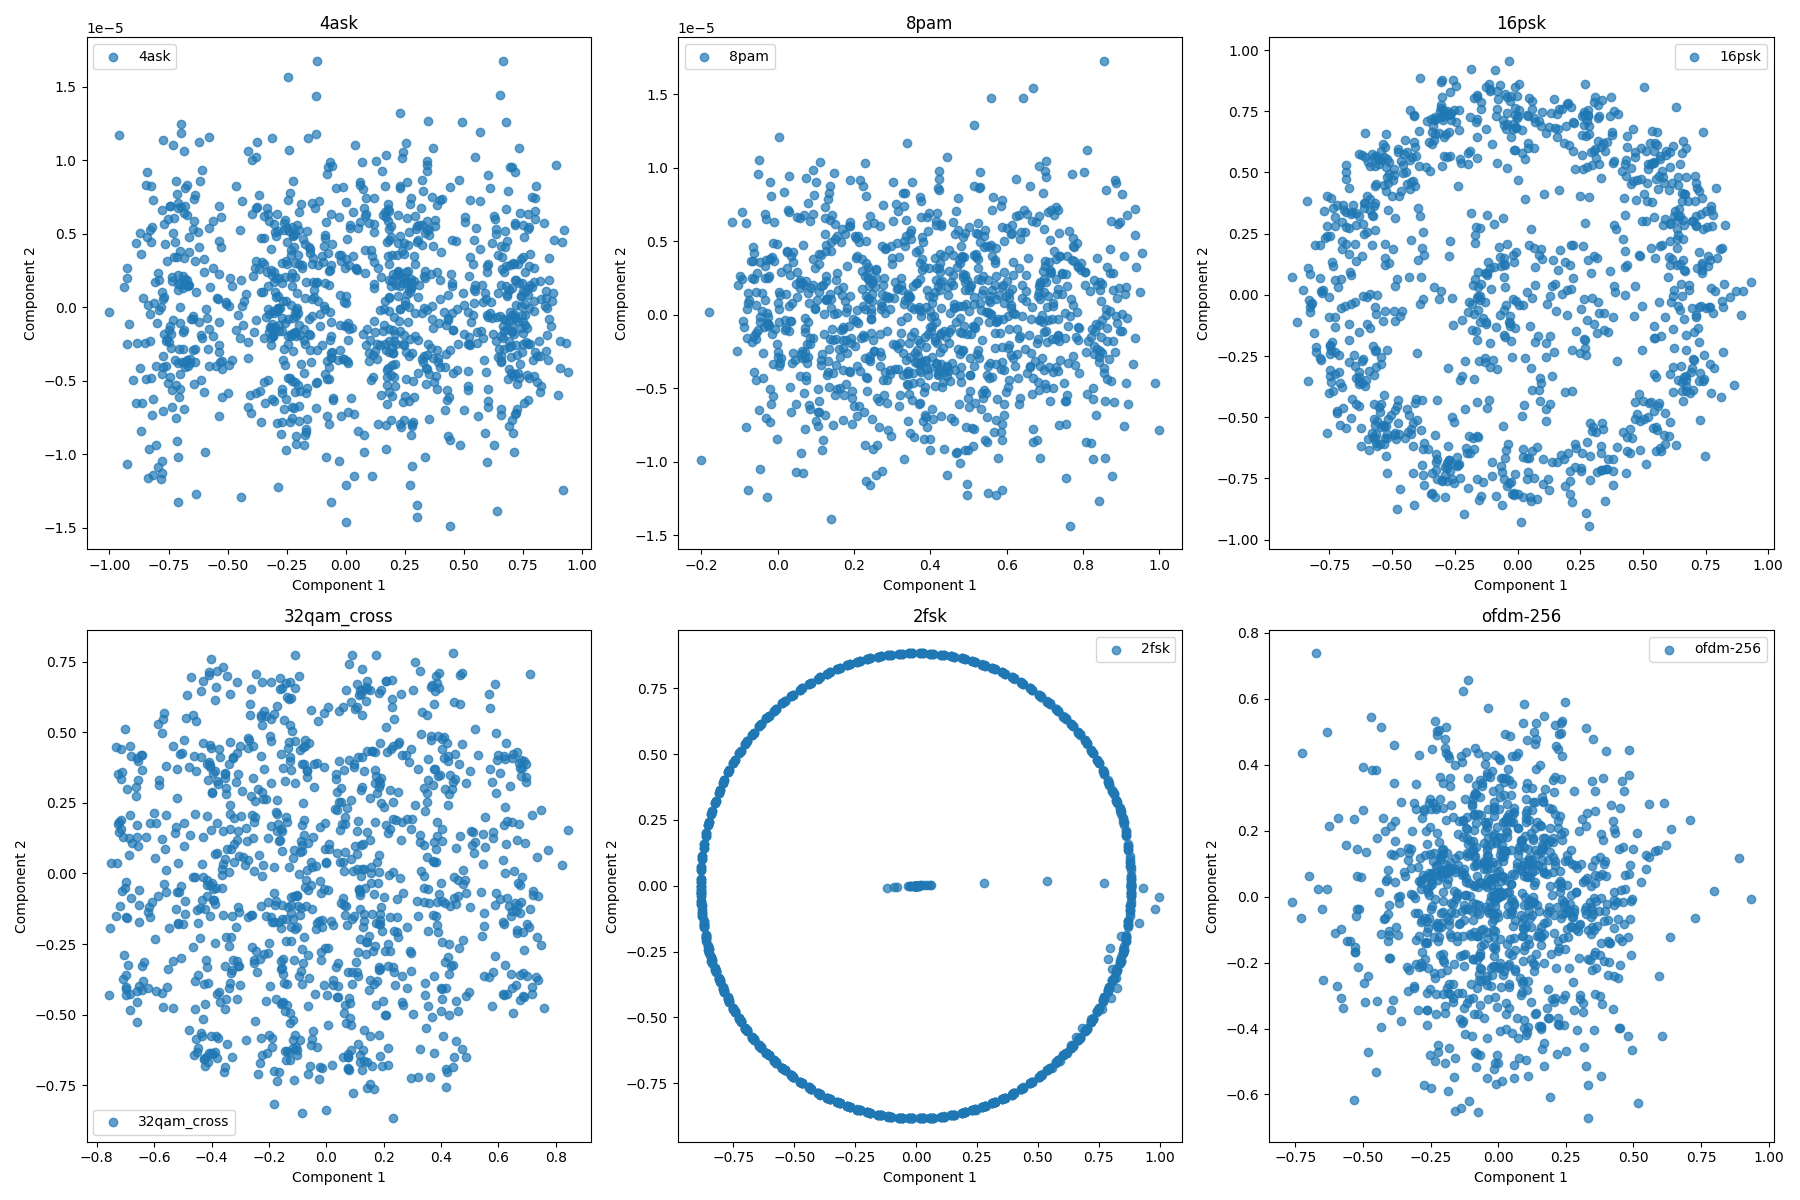
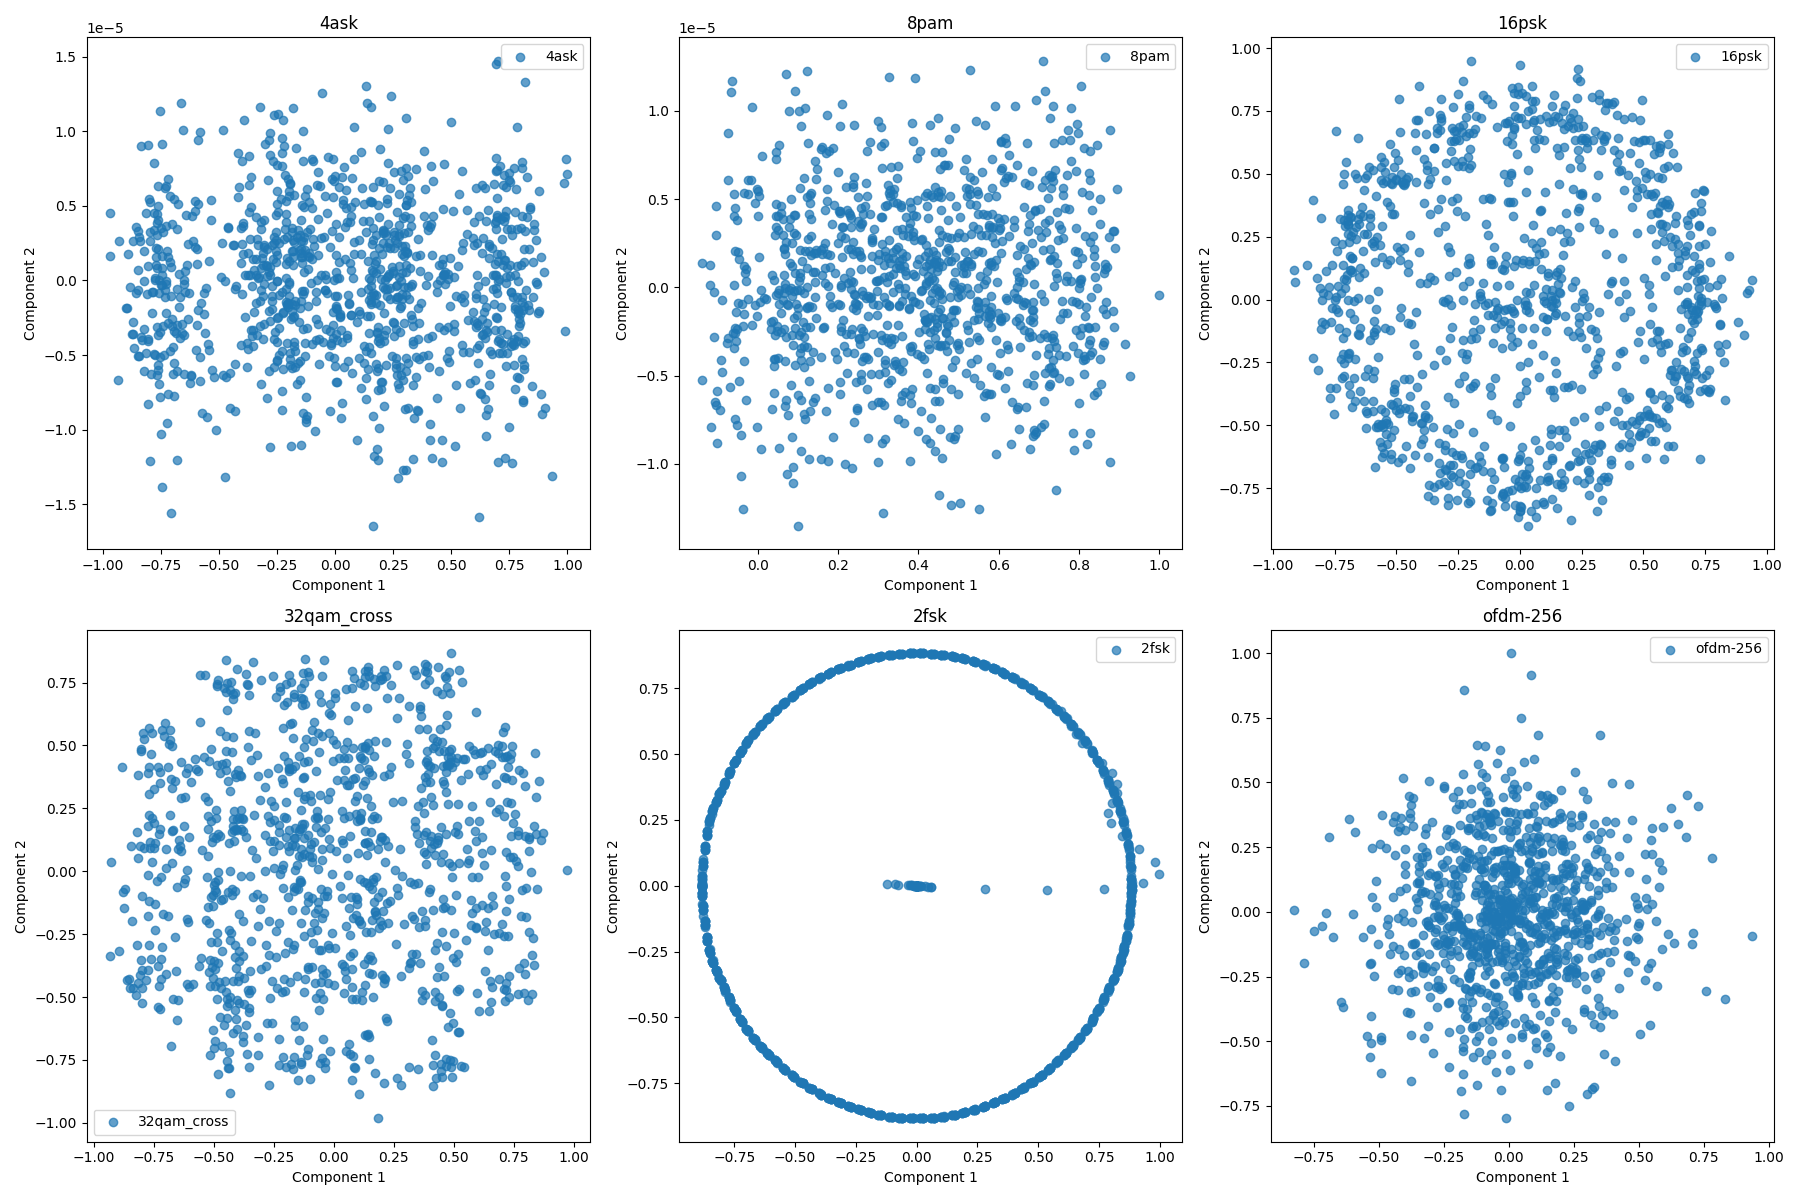
Added constellations for the vqvae reconstructions

diff --git a/run/plotOriginalConstellations.py b/run/plotOriginalConstellations.py
@@ -2,56 +2,56 @@ import os
 import matplotlib.pyplot as plt
 import torch
 from src.Dataset import getDataLoader
-
-def plot_signals_by_class(data_loader, classes, folder):
-    # Create the eval folder if it doesn't exist
+from src.utils import *
+from tqdm import tqdm
+def plot_signals_by_class(data_loader, classes, folder, vqvae_model=None):
     os.makedirs(folder, exist_ok=True)
-
-    # Initialize a dictionary to store one signal per class
     class_signals = {cls: None for cls in range(len(classes))}
 
-    # Iterate through the data loader to fetch signals and their labels
-    for signals, labels in data_loader:
+    # Ensure the model is in evaluation mode and moved to the correct device
+    if vqvae_model:
+        vqvae_model = vqvae_model.to(device).eval()
+
+    for signals, labels in tqdm(data_loader):
+        signals = signals.to(device)  # Move signals to GPU if using CUDA
         for signal, label in zip(signals, labels):
             label_idx = label.item()
             if class_signals[label_idx] is None:
-                class_signals[label_idx] = signal
+                if vqvae_model:
+                    with torch.no_grad():
+                        # Ensure signal has correct dimensions: (batch_size, channels, length)
+                        signal = signal.unsqueeze(0)  # Add batch dimension if it's missing
+                        reconstructed = vqvae_model.reconstruct(signal)
+                        class_signals[label_idx] = reconstructed.squeeze(0).cpu().numpy()  # Remove batch dimension for plotting
+                else:
+                    class_signals[label_idx] = signal.cpu().numpy()
 
-        # Break the loop if we have one signal for each class
         if all(val is not None for val in class_signals.values()):
             break
 
-    # Create a figure with subplots
-    cols = 3  # Number of columns in subplot grid
-    rows = (len(classes) + cols - 1) // cols  # Calculate rows needed
-    plt.figure(figsize=(18, 6 * rows))
-
-    # Plot one signal for each class
+    plt.figure(figsize=(18, 6 * ((len(classes) + 2) // 3)))
     for i, (label_idx, signal) in enumerate(class_signals.items()):
-        if signal is not None:
-            ax = plt.subplot(rows, cols, i + 1)
+        ax = plt.subplot((len(classes) + 2) // 3, 3, i + 1)
+        ax.scatter(signal[0], signal[1], alpha=0.7, label=classes[label_idx])
+        ax.set_title(f'{classes[label_idx]}')
+        ax.set_xlabel('Component 1')
+        ax.set_ylabel('Component 2')
+        ax.legend()
 
-            # Assuming signals are IQ samples with shape [2, n_samples]
-            iq_signal = signal.cpu().detach().numpy()
-
-            ax.scatter(iq_signal[0], iq_signal[1], alpha=0.7, label=classes[label_idx])
-            ax.set_title(f'{classes[label_idx]}')
-            ax.set_xlabel('Component 1')
-            ax.set_ylabel('Component 2')
-            ax.legend()
-
-    # Save the plot
-    plt.tight_layout()  # Adjust subplots to fit into the figure area
+    plt.tight_layout()
     plt.savefig(os.path.join(folder, 'signals_by_class.png'))
     plt.close()
 
-# Example usage
-classes = ["4ask", "8pam", "16psk", "32qam_cross", "2fsk", "ofdm-256"]
+# Load your VQVAE model correctly and ensure it's ready for inference
+vqvae_model = torch.load(VQVAE_PATH).to(device).eval()
+
+# Define your data loader and classes
 train_dl, ds_train, test_dl, ds_test, val_dl, ds_val = getDataLoader(
     classes=classes,
-    iq_samples=1024,  # Assuming IQ samples length is 1024
-    samples_per_class=1000,  # Number of samples per class
-    batch_size=6  # Batch size to fit 6 classes per plot
+    iq_samples=1024,
+    samples_per_class=1000,
+    batch_size=6
 )
 
-plot_signals_by_class(train_dl, classes, folder="EvaluationResults")
+# Plot the signals
+plot_signals_by_class(train_dl, classes, "EvaluationResults")
